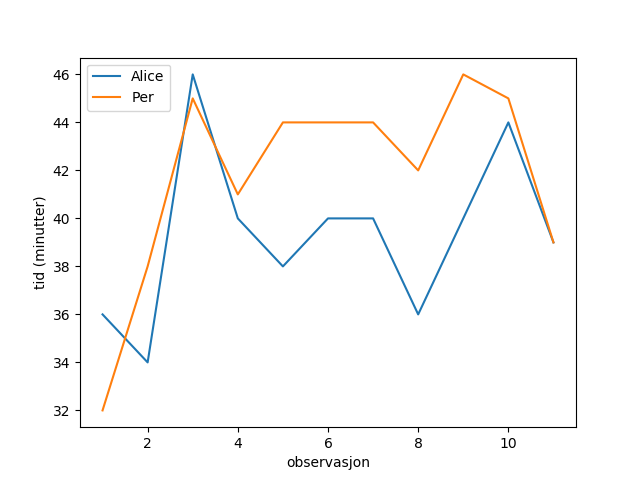
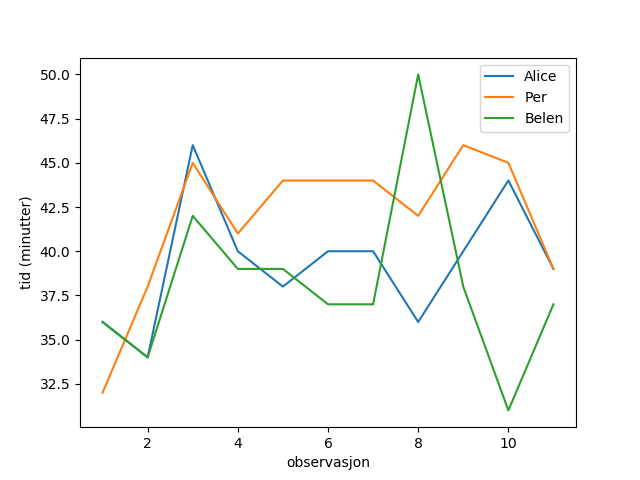
Ferdig steg 1

diff --git a/statistikk/templates/statistikk/sammenligning.html b/statistikk/templates/statistikk/sammenligning.html
@@ -19,7 +19,7 @@
     {{datasett.person_name}}
   </th>
 {% for data in datasett.data_set.all %}
-<td> {{data.value}} </td>
+<td> {{data.verdi}} </td>
 {% endfor %}
 </tr>
 {% endfor %}

diff --git a/statistikk/templates/statistikk/datasett.html b/statistikk/templates/statistikk/datasett.html
@@ -17,7 +17,7 @@ Navn: {{datasett.person_name}}<br />
 
 {% for data in datasett.data_set.all %}
 <td>
-  {{data.value}}
+  {{data.verdi}}
 </td>
 {% endfor %}
 </tr>

diff --git a/statistikk/models.py b/statistikk/models.py
@@ -19,7 +19,7 @@ class Datasett(models.Model):
     enhet = models.CharField(max_length=200,default='minutter')
 
     def data(self):
-        return list(self.data_set.values_list('value',flat=True))
+        return list(self.data_set.values_list('verdi',flat=True))
 
     def sortert(self):
         return sorted(self.data())
@@ -56,7 +56,6 @@ class Datasett(models.Model):
         print("here!")
 
     def gjennomsnittshastighet(self):
-        data = list(self.data_set.values_list('value',flat=True))
         return format(600/numpy.mean(self.data()), self.FORMAT)
 
     def linje_url(self):
@@ -74,7 +73,7 @@ class Datasett(models.Model):
 
     def generer_linje(self, close = True):
         filnavn = "statistikk/static/images/datasett/" + str(self.pk) + ".png"
-        plt.plot(range(1,len(self.data())+1),self.data(),label=Self.person_name)
+        plt.plot(range(1,len(self.data())+1),self.data(),label=self.person_name)
         plt.ylabel('tid (minutter)')
         plt.xlabel('observasjon')
         plt.savefig(filnavn)
@@ -82,6 +81,13 @@ class Datasett(models.Model):
             plt.close()
         return filnavn
 
+    def leggtil(name,data):
+        nyttdatasett = Datasett.objects.create(person_name=name)
+
+        for v in data:
+            Data.objects.create(datasett=nyttdatasett,verdi=v)
+
+        return nyttdatasett
 
 class Sammenligning(models.Model):
     datasett = models.ManyToManyField(Datasett)
@@ -114,7 +120,7 @@ class Sammenligning(models.Model):
         person = 'Ingen'
         for datasett in self.datasett.all():
             if(datasett.max() == storst):
-                person = 'Begge'
+                person = 'Flere enn en (begge)'
             if(datasett.max()>storst):
                 person=datasett.person_name
                 storst = datasett.max()
@@ -126,7 +132,7 @@ class Sammenligning(models.Model):
         person = 'Ingen'
         for datasett in self.datasett.all():
             if(datasett.min() == minst):
-                person = 'Begge'
+                person = 'Flere enn en (begge)'
             if(datasett.min()<minst):
                 person=datasett.person_name
                 minst = datasett.min()
@@ -138,7 +144,7 @@ class Sammenligning(models.Model):
         person = 'Ingen'
         for datasett in self.datasett.all():
             if(datasett.gjennomsnitt() == minst):
-                person = 'Begge'
+                person = 'Flere enn en (begge)'
             if(datasett.gjennomsnitt()<minst):
                 person=datasett.person_name
                 minst = datasett.gjennomsnitt()
@@ -149,7 +155,7 @@ class Sammenligning(models.Model):
         person = 'Ingen'
         for datasett in self.datasett.all():
             if(datasett.standardavvik() == verdi):
-                person = 'Begge'
+                person = 'Flere enn en (begge)'
             if(datasett.standardavvik()>verdi):
                 person=datasett.person_name
                 minst = datasett.gjennomsnitt()
@@ -159,7 +165,7 @@ class Sammenligning(models.Model):
 
 class Data(models.Model):
     app_label = 'statistikk'
-    dataset = models.ForeignKey(Datasett, on_delete=models.CASCADE)
-    value = models.IntegerField()
+    datasett = models.ForeignKey(Datasett, on_delete=models.CASCADE)
+    verdi = models.IntegerField()
     def __str__(self):
-        return str(self.value)
+        return str(self.verdi)

diff --git a/lopedata.py b/lopedata.py
@@ -1,0 +1,38 @@
+exec("standalone")
+
+Datasett.leggtil("Dag",[40,37,48,35,44,44,44,44,35,37,35])
+Datasett.leggtil("Eigil",[41,39,41,33,45,40,40,42,35,39,36])
+Datasett.leggtil("Filip",[43,39,37,46,34,37,37,41,48,41,32])
+Datasett.leggtil("Gillis",[44,40,44,42,38,34,34,40,43,41,47])
+Datasett.leggtil("Haakon",[29,42,41,42,39,44,44,39,43,44,47])
+Datasett.leggtil("Ib",[37,42,38,40,41,40,40,39,41,45,43])
+Datasett.leggtil("Jan",[37,44,46,38,44,37,37,36,40,33,44])
+Datasett.leggtil("Kai",[39,44,40,38,45,34,34,37,39,38,42])
+Datasett.leggtil("Lars",[40,51,36,34,34,44,44,31,38,38,42])
+Datasett.leggtil("Magnus",[41,36,43,48,38,40,40,45,38,40,41])
+Datasett.leggtil("Natalie",[44,35,40,46,40,37,37,45,34,41,41])
+Datasett.leggtil("Oda",[44,38,37,42,41,34,34,42,47,42,40])
+Datasett.leggtil("Per",[32,38,45,41,44,44,44,42,46,45,39])
+Datasett.leggtil("Quinn",[37,39,40,40,46,40,40,41,42,46,39])
+Datasett.leggtil("Radney",[38,40,35,38,35,37,37,40,42,34,38])
+Datasett.leggtil("Samir",[40,41,42,38,39,34,34,39,41,38,38])
+Datasett.leggtil("Tellef",[41,43,39,34,40,44,44,37,40,38,36])
+Datasett.leggtil("Vegard",[45,46,44,45,45,37,43,34,37,42,32])
+Datasett.leggtil("Warren",[45,45,39,42,47,35,41,33,37,42,32])
+Datasett.leggtil("Xavier",[33,31,33,41,35,44,39,47,31,46,48])
+Datasett.leggtil("Yosif",[38,37,42,40,39,40,38,43,44,34,44])
+Datasett.leggtil("Zoe",[38,36,39,38,40,37,34,43,45,35,45])
+Datasett.leggtil("�gir",[40,38,35,38,41,35,45,41,42,38,42])
+Datasett.leggtil("�yvind",[41,39,43,33,45,44,44,41,41,39,43])
+Datasett.leggtil("�sa",[42,40,39,45,33,40,41,40,40,40,41])
+Datasett.leggtil("Adrian",[46,41,30,45,35,37,40,38,39,42,41])
+Datasett.leggtil("Benedicte",[50,41,41,42,39,35,38,38,38,43,40])
+Datasett.leggtil("Cecilie",[34,43,38,41,40,44,35,35,36,47,39])
+Datasett.leggtil("Dagny",[38,43,47,40,41,40,46,36,36,35,39])
+Datasett.leggtil("Eilin",[39,47,42,38,45,37,44,51,50,36,38])
+Datasett.leggtil("Fr�dis",[40,33,38,37,34,35,41,44,43,39,38])
+Datasett.leggtil("Glenn",[42,34,49,32,36,44,40,44,44,39,36])
+Datasett.leggtil("Hadja",[42,37,41,45,39,40,39,42,41,41,37])
+Datasett.leggtil("Ida",[47,37,37,44,40,37,35,41,41,43,33])
+Datasett.leggtil("Jarle",[35,39,44,41,42,35,33,40,40,43,34])
+Datasett.leggtil("Kaja",[35,39,41,41,46,44,45,39,38,49,49])

diff --git a/standalone.py b/standalone.py
@@ -11,14 +11,16 @@ import math, stat, numpy, scipy
 ## Laster inn modeller
 from statistikk.models import *
 
-o = Datasett.objects.first()
-o.generer_linje()
-o.linje_url()
+debug = False
+if debug:
+    o = Datasett.objects.first()
+    o.generer_linje()
+    o.linje_url()
 
-o1 = Datasett.objects.first()
-o2 = Datasett.objects.last()
-s = Sammenligning.objects.first()
-s.datasett.add(o1)
-s.datasett.add(o2)
-s.generer_linje()
-s.linje_url()
+    o1 = Datasett.objects.first()
+    o2 = Datasett.objects.last()
+    s = Sammenligning.objects.first()
+    s.datasett.add(o1)
+    s.datasett.add(o2)
+    s.generer_linje()
+    s.linje_url()

diff --git a/statistikk/migrations/0005_auto_20180321_1340.py b/statistikk/migrations/0005_auto_20180321_1340.py
@@ -1,0 +1,23 @@
+# Generated by Django 2.0.2 on 2018-03-21 12:40
+
+from django.db import migrations
+
+
+class Migration(migrations.Migration):
+
+    dependencies = [
+        ('statistikk', '0004_sammenligning'),
+    ]
+
+    operations = [
+        migrations.RenameField(
+            model_name='data',
+            old_name='dataset',
+            new_name='datasett',
+        ),
+        migrations.RenameField(
+            model_name='data',
+            old_name='value',
+            new_name='verdi',
+        ),
+    ]

diff --git a/statistikk/admin.py b/statistikk/admin.py
@@ -1,7 +1,7 @@
 from django.contrib import admin
 from django.db import models
 # Register your models here.
-from .models import Datasett, Data
+from .models import Datasett, Data, Sammenligning
 
 class DataInline(admin.TabularInline):
     model = Data
@@ -11,3 +11,4 @@ class DatasettAdmin(admin.ModelAdmin):
     inlines = [DataInline]
 
 admin.site.register(Datasett, DatasettAdmin)
+admin.site.register(Sammenligning)
